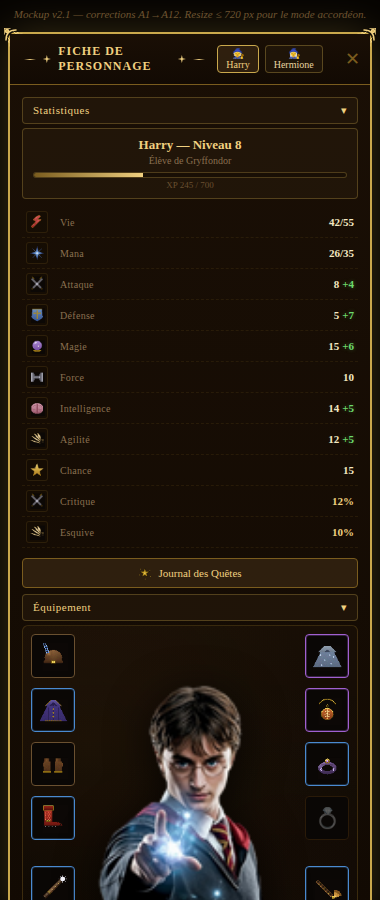
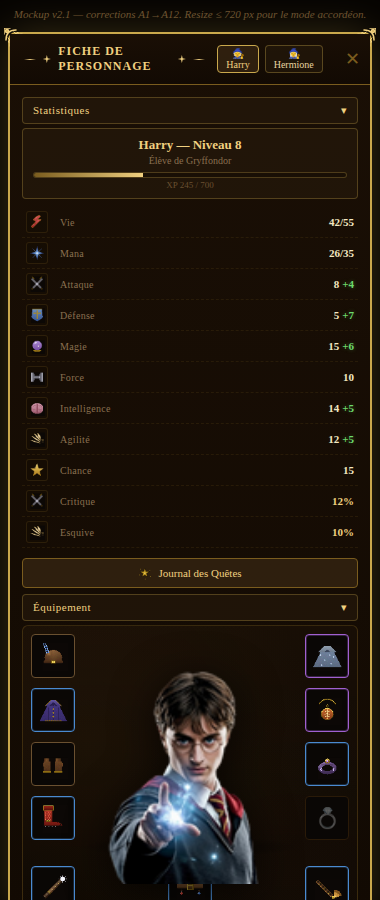
fix(character): mockup v2.4 — buste adaptatif via wrapper absolu
v2.3 a empiré : passer en absolute+top/bottom/left/right + width:auto
sur <img> garde la taille intrinsèque (128×128) au lieu d'étirer.
Comportement attendu sur replaced elements.

Solution : wrapper div .pd-portrait-wrapper en position:absolute
qui définit le rectangle disponible (top:10/bottom:170/left:70/right:70
en desktop, valeurs réduites en mobile), et l'img dedans en
width:100%/height:100% + object-fit:contain pour s'adapter au min(W,H)
sans déformation.

Résultat : buste ~260×260 effectif sur le mockup desktop sans masquer
le slot belt. S'ajuste automatiquement à la largeur du panneau central.

Changed region(s): [[0.2605, 0.7467, 0.6947, 1.0]]

diff --git a/tools/mockup_character_v2.html b/tools/mockup_character_v2.html
@@ -200,22 +200,27 @@ body {
   border-radius:6px;
   overflow:hidden;
 }
-/* A1bis — buste VRAIMENT agrandi (source 128×128 → upscale assumé). */
-.paper-doll .pd-portrait{
+/* A1ter — buste = tout l'espace libre entre slots latéraux et slots du bas.
+   Wrapper absolu pour définir la zone, img à 100%/100% + object-fit:contain
+   pour que l'image carrée 128×128 s'adapte au min(W,H) sans déformation.
+   Sans wrapper : img absolu garde sa taille intrinsèque (cf. v2.3 raté). */
+.pd-portrait-wrapper{
   position:absolute;
-  left:50%; bottom:60px;
-  transform:translateX(-50%);
-  width:320px; height:320px;
-  object-fit:contain;
-  image-rendering:auto;
-  filter:drop-shadow(0 8px 22px rgba(0,0,0,0.75));
+  top:10px; bottom:170px;
+  left:70px; right:70px;
   z-index:2;
   pointer-events:none;
+}
+.paper-doll .pd-portrait{
+  width:100%; height:100%;
+  object-fit:contain;
+  object-position:center bottom;
+  filter:drop-shadow(0 8px 22px rgba(0,0,0,0.75));
 }
 /* Socle / podium subtil sous le perso */
 .paper-doll::before{
   content:''; position:absolute;
-  left:50%; bottom:46px;
+  left:50%; bottom:166px;
   transform:translateX(-50%);
   width:220px; height:22px;
   background:radial-gradient(ellipse at center, rgba(0,0,0,0.65), transparent 70%);
@@ -381,9 +386,12 @@ body {
   .tab          { font-size:10px; padding:2px 8px; }
   .char-grid    { grid-template-columns:1fr; gap:6px; }
   .section-toggle { display:block; }
-  /* A10 — mobile : perso agrandi mais sans déborder sur slot belt */
+  /* A10 — mobile : wrapper resserré pour s'adapter aux slots 44px */
   .paper-doll   { height:400px; }
-  .paper-doll .pd-portrait { width:240px; height:260px; bottom:90px; }
+  .pd-portrait-wrapper {
+    top:8px; bottom:140px;
+    left:60px; right:60px;
+  }
   .equip-slot   { width:44px; height:44px; font-size:20px; }
   .equip-slot img { width:30px; height:30px; }
   .equip-slot-head    { top:  8px; left:  8px; }
@@ -547,8 +555,10 @@ body {
               <div class="tooltip"><span class="tt-name">Éclair de Feu</span><span class="tt-rarity rare">Rare · Bibelot</span><span class="tt-bonus">Fuite garantie</span></div>
             </div>
 
-            <!-- A1 — buste Harry agrandi, prend toute la zone verticale -->
-            <img class="pd-portrait" src="../img/harry.png" alt="Harry">
+            <!-- A1ter — buste prend toute la zone libre via wrapper absolu -->
+            <div class="pd-portrait-wrapper">
+              <img class="pd-portrait" src="../img/harry.png" alt="Harry">
+            </div>
 
             <!-- A7 — Bandeau Or DANS le paper doll -->
             <div class="gold-banner">
